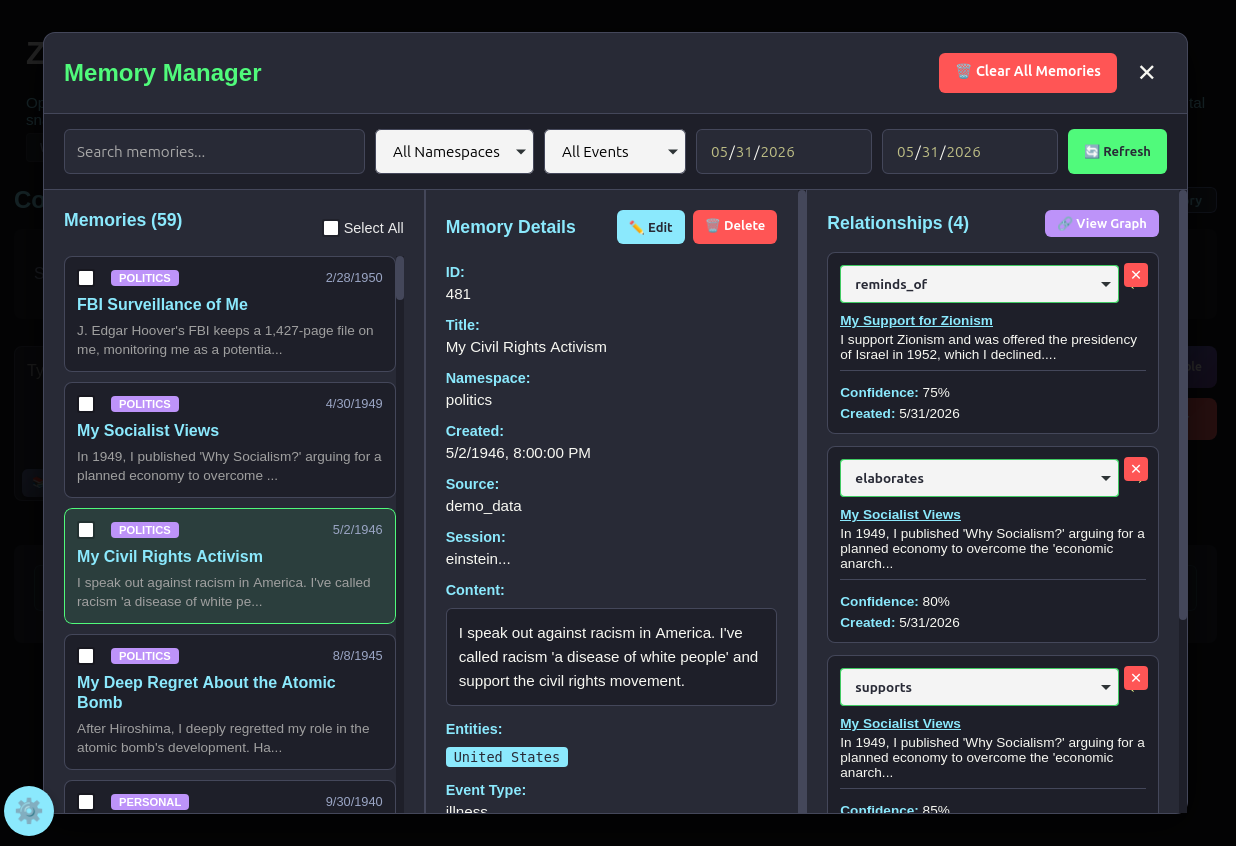
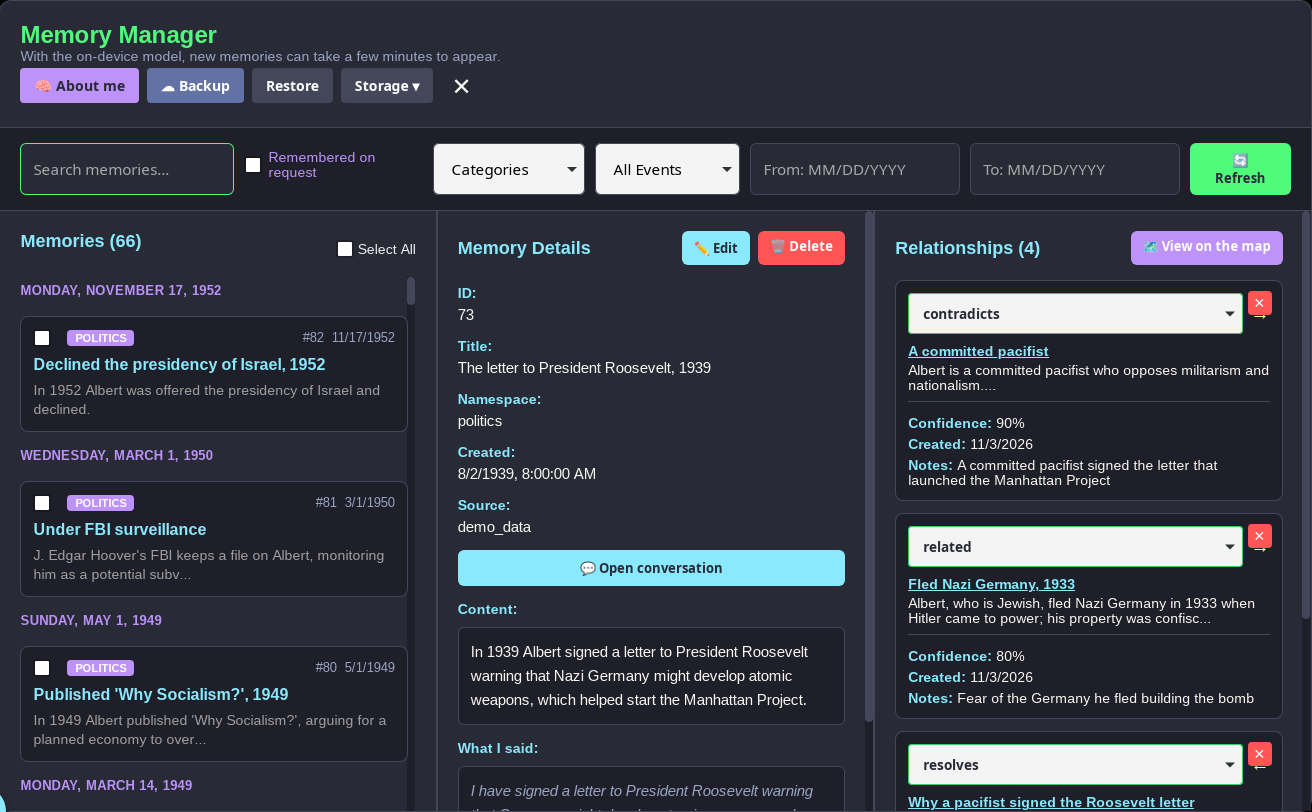
README on main: the 3 November screenshots (memory map, conflict card, main screen, settings) and the text that goes with them
The pictures and wording come from v1 commits c90fd9a and later; nothing else from v1 is merged here.

Claude-Session: https://claude.ai/code/session_019LrF1q5XwbnLBwynfwxcgP

diff --git a/README.md b/README.md
@@ -56,7 +56,7 @@ And because the entire stack is offline-first — no cloud dependency, no subscr
 - **Pure Rust ML** - Embeddings, NER, and safety classification run on the Candle framework — no Python runtime
 - **Multi-Model Ensemble** - Query multiple AI models simultaneously with consensus detection
 - **Contradiction Detection** - Automatically surfaces conflicting memories and asks you to resolve them
-- **Memory Graph** - Visual relationship map of all stored memories; explore contradictions, connections, and context
+- **Memory Relationships** - Every memory keeps its links to the others: what it updates, what it contradicts, what came from the same message. Shown in words on each memory, and as a picture in the Memory Manager
 - **Cross-Device Sync** - ZynkSync syncs memories, conversations, settings and your voice profile across your own devices
 - **Cloud Backup** - Encrypted backup of memories, conversations, keys and voice profile to your own storage bucket; a fresh install restores itself from it
 - **Hey Zynk** - Hands-free on Android: a wake word that answers only the voice it has been taught, with timers, alarms and a stopwatch by voice
@@ -280,20 +280,20 @@ As of two years ago, I had no experience with Rust and only an interest. When it
 <table>
   <tr>
     <td align="center" width="50%">
-      <img src="assets/graph_contradicts.png" alt="Memory contradiction detail">
-      <br><em>Zoomed in — red edges show contradictions between memories, blue elaborates, yellow reminds_of. Click any node to inspect content and related memories.</em>
+      <img src="assets/map_zoomed.png" alt="Memory map, zoomed in on one memory">
+      <br><em>The memory map, zoomed in: a red line is a contradiction, pink the explanation that resolves it, green an update, purple a related memory. The rings are the people and places the memories share. Tap anything to read it.</em>
     </td>
     <td align="center" width="50%">
-      <img src="assets/graph_global.png" alt="Memory graph overview">
-      <br><em>The full memory graph — every stored memory and its relationships. Zoom out to see the complete picture as it grows over time.</em>
+      <img src="assets/map_whole.png" alt="Memory map of the Einstein demo">
+      <br><em>The whole map of the Einstein demo: memories coloured by category, gathered around the people, places and things they mention.</em>
     </td>
   </tr>
 </table>
 
 <p align="center">
-  <img src="assets/conradiction_modal.png" alt="Contradiction resolution modal" width="800">
+  <img src="assets/conflict_card.png" alt="The conflict card: a new statement against a stored memory" width="800">
 </p>
-<p align="center"><em>When a contradiction is detected between two memories, Zynkbot surfaces both and asks you to resolve it — never silently overwrites your data.</em></p>
+<p align="center"><em>When a new statement contradicts a stored memory, Zynkbot shows both and asks you how to resolve it — it never silently overwrites your data.</em></p>
 
 **[→ Memory System Details](docs/FEATURES.md#-persistent-semantic-memory)**
 
@@ -311,13 +311,13 @@ Every installation runs in exactly one containment mode at a time. The default i
 | **Child**     | Strict                | For minors, aggressive filtering  |
 | **Sovereign** | Warnings only (default) | Warns but doesn't block         |
 | **Witness**   | No filtering          | Full freedom, no restrictions     |
-| **HIPAA**     | Healthcare-oriented   | PHI detection, no memory storage  |
+| **HIPAA**     | Healthcare-oriented   | PHI check, no memory storage      |
 
 **How filtering works:**
 
 - **Guardian / Sovereign / Witness**: Local TinyBERT (toxic-bert) model — runs entirely on your device, no data leaves
 - **Child Mode**: OpenAI Moderation API — requires an OpenAI API key for the strictest protection
-- **HIPAA Mode**: Pre-LLM PHI detection (SSN, phone, email, etc.) + audit logging + enforced ephemeral mode (nothing stored)
+- **HIPAA Mode**: a message with an identifier (SSN, phone, email, record number, a patient's name and more) is not sent; identifiers in recalled text are removed before the model call; audit logging; no conversation history and no new memories
 
 **[→ Mode Features Guide](docs/FEATURES.md#-containment-modes)**
 
@@ -343,7 +343,7 @@ All features work over your local network (WiFi/LAN/mobile hotspot) with no clou
 
 - Place `.gguf` files in `zynkbot_rust/src-tauri/models/user/`
 - The Zynkbot model: Sophro-4B-memory-v1, a Q4_0 fine-tune of Qwen3-4B-Instruct-2507 for memory extraction (`Sophro-4B-memory-v1-Q4_0.gguf`, 2.4 GB, from https://huggingface.co/GenerallyTso/Sophro-4B-memory-v1). The setup wizard offers to download it at first run. On a phone it is the only model offered
-- Alternatives: Qwen3 8B, DeepSeek R1 Distill Llama 8B, Llama 3.1 8B Lexi Uncensored V2 — optional download included in installation script
+- Alternatives on a computer: Gemma 4 12B, Gemma 4 E4B, Qwen3.5 9B, Ministral 3 8B — offered by the setup wizard and the installation scripts, each with a line on what it does well and where it fails (measured in [docs/BENCHMARKS.md](docs/BENCHMARKS.md), section 5)
 - No API key needed — runs completely offline
 - CPU works; NVIDIA GPU with CUDA gives 10–100x faster responses (automatically configured by the installer if you have the CUDA toolkit — see [GPU Acceleration](#gpu-acceleration) below)
 
@@ -579,7 +579,7 @@ Copyright (c) 2024-2026 Matthew Skillman / ContainAI
 - **[Installation Guides](docs/)** - Platform-specific setup instructions
 - **[Model Architecture](docs/architecture_and_development/MODEL_ARCHITECTURE.md)** - System design and ML pipeline
 - **[Memory Processing Pipeline](docs/architecture_and_development/MEMORY_PROCESSING_PIPELINE.md)** - How memory search and storage works
-- **[Memory Relationship Graph](docs/architecture_and_development/MEMORY_RELATIONSHIP_GRAPH.md)** - The graph visualization: what it shows, practical uses, and research potential
+- **[Memory Relationships](docs/architecture_and_development/MEMORY_RELATIONSHIP_GRAPH.md)** - The links between memories: what they are, what they are for today, and their research potential
 - **[Prompt Construction Pipeline](docs/architecture_and_development/PROMPT_CONSTRUCTION_PIPELINE.md)** - How prompts are assembled
 - **[Database Schema](docs/architecture_and_development/DATABASE_SCHEMA.md)** - Database structure
 - **[Models](docs/MODELS.md)** - Model information and management
